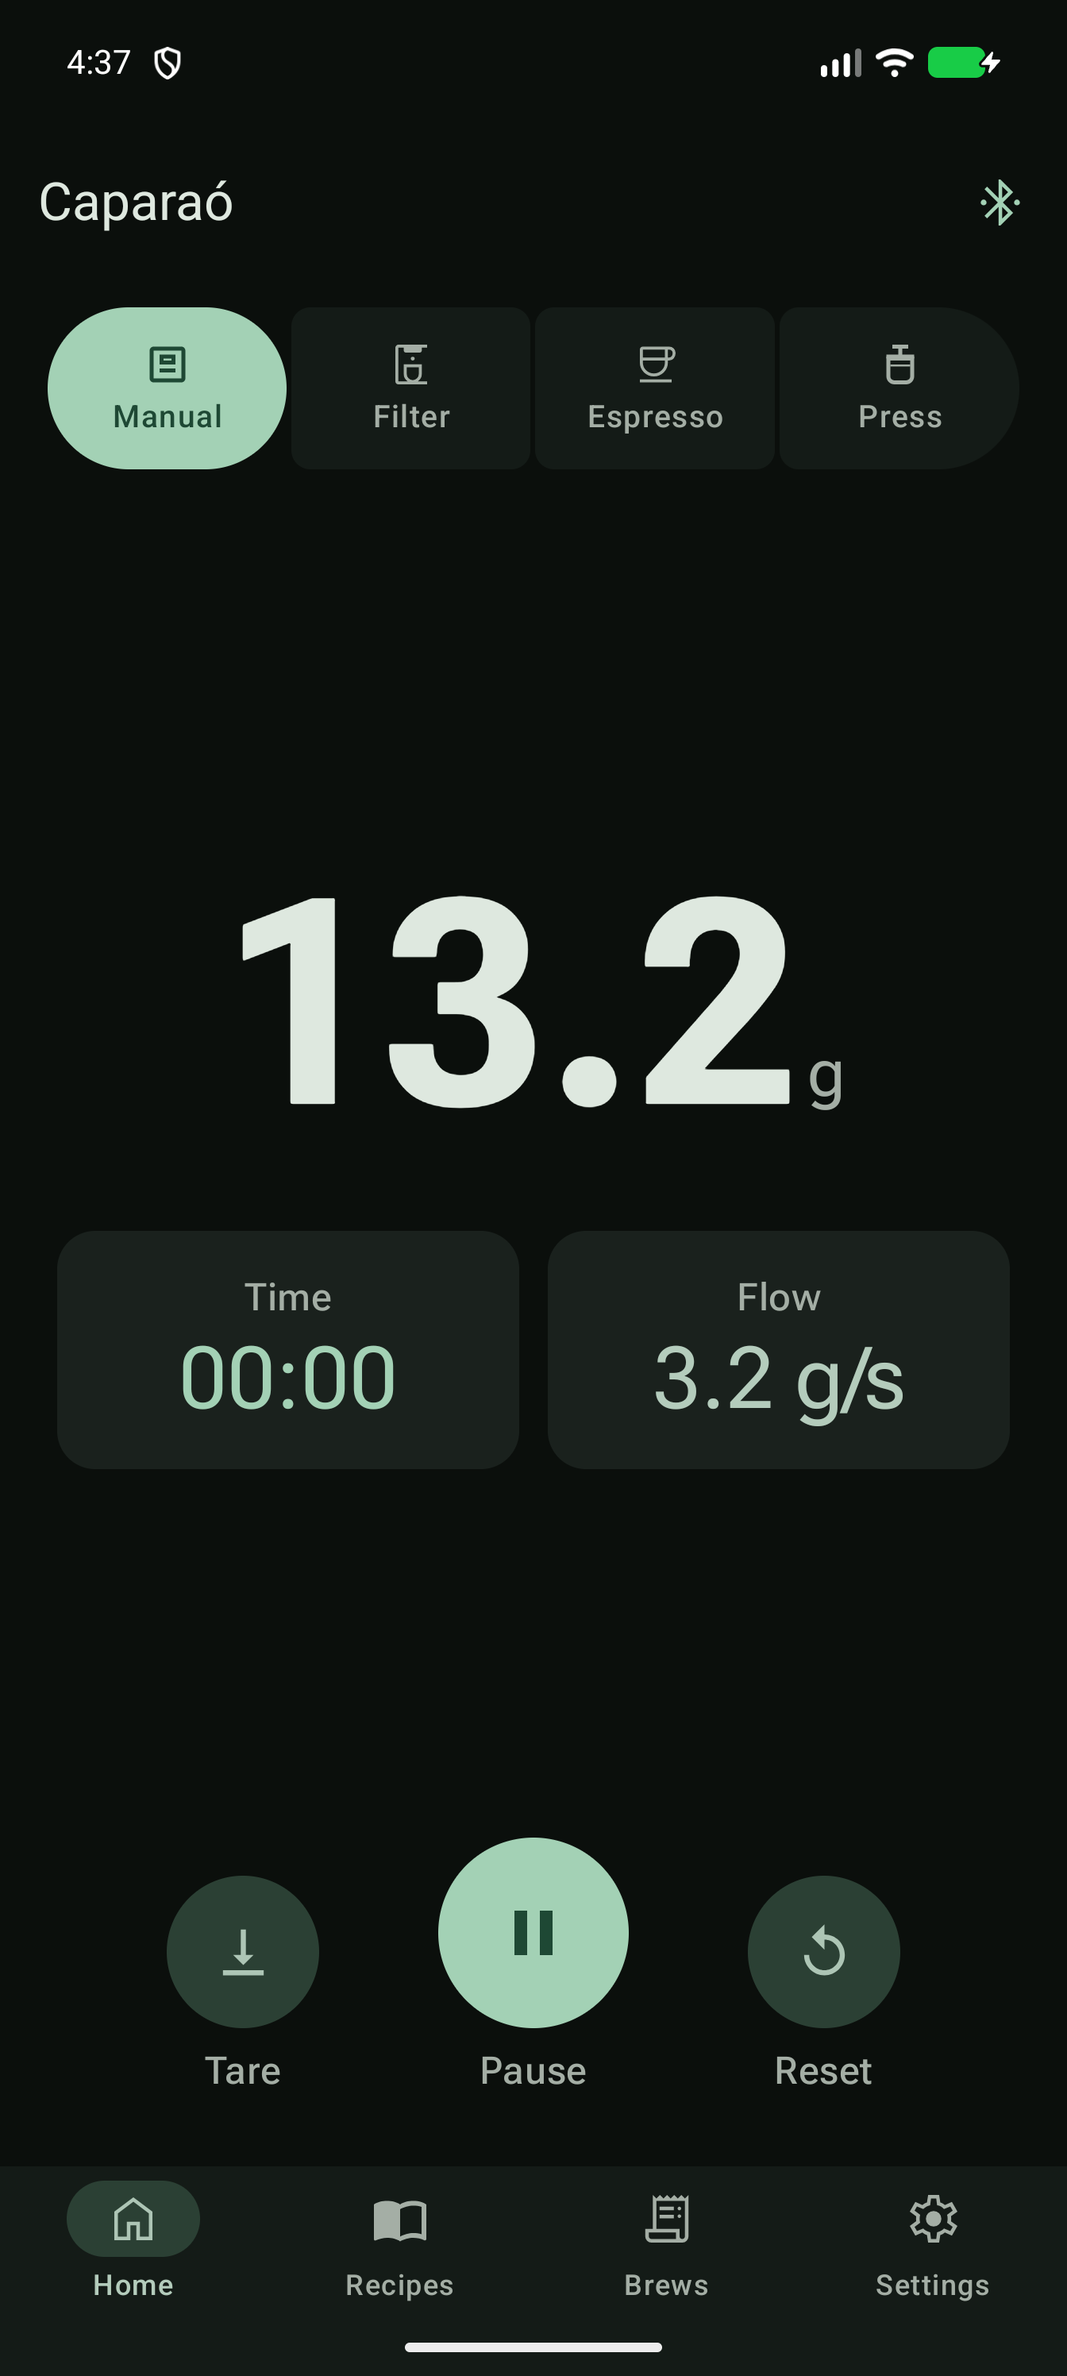
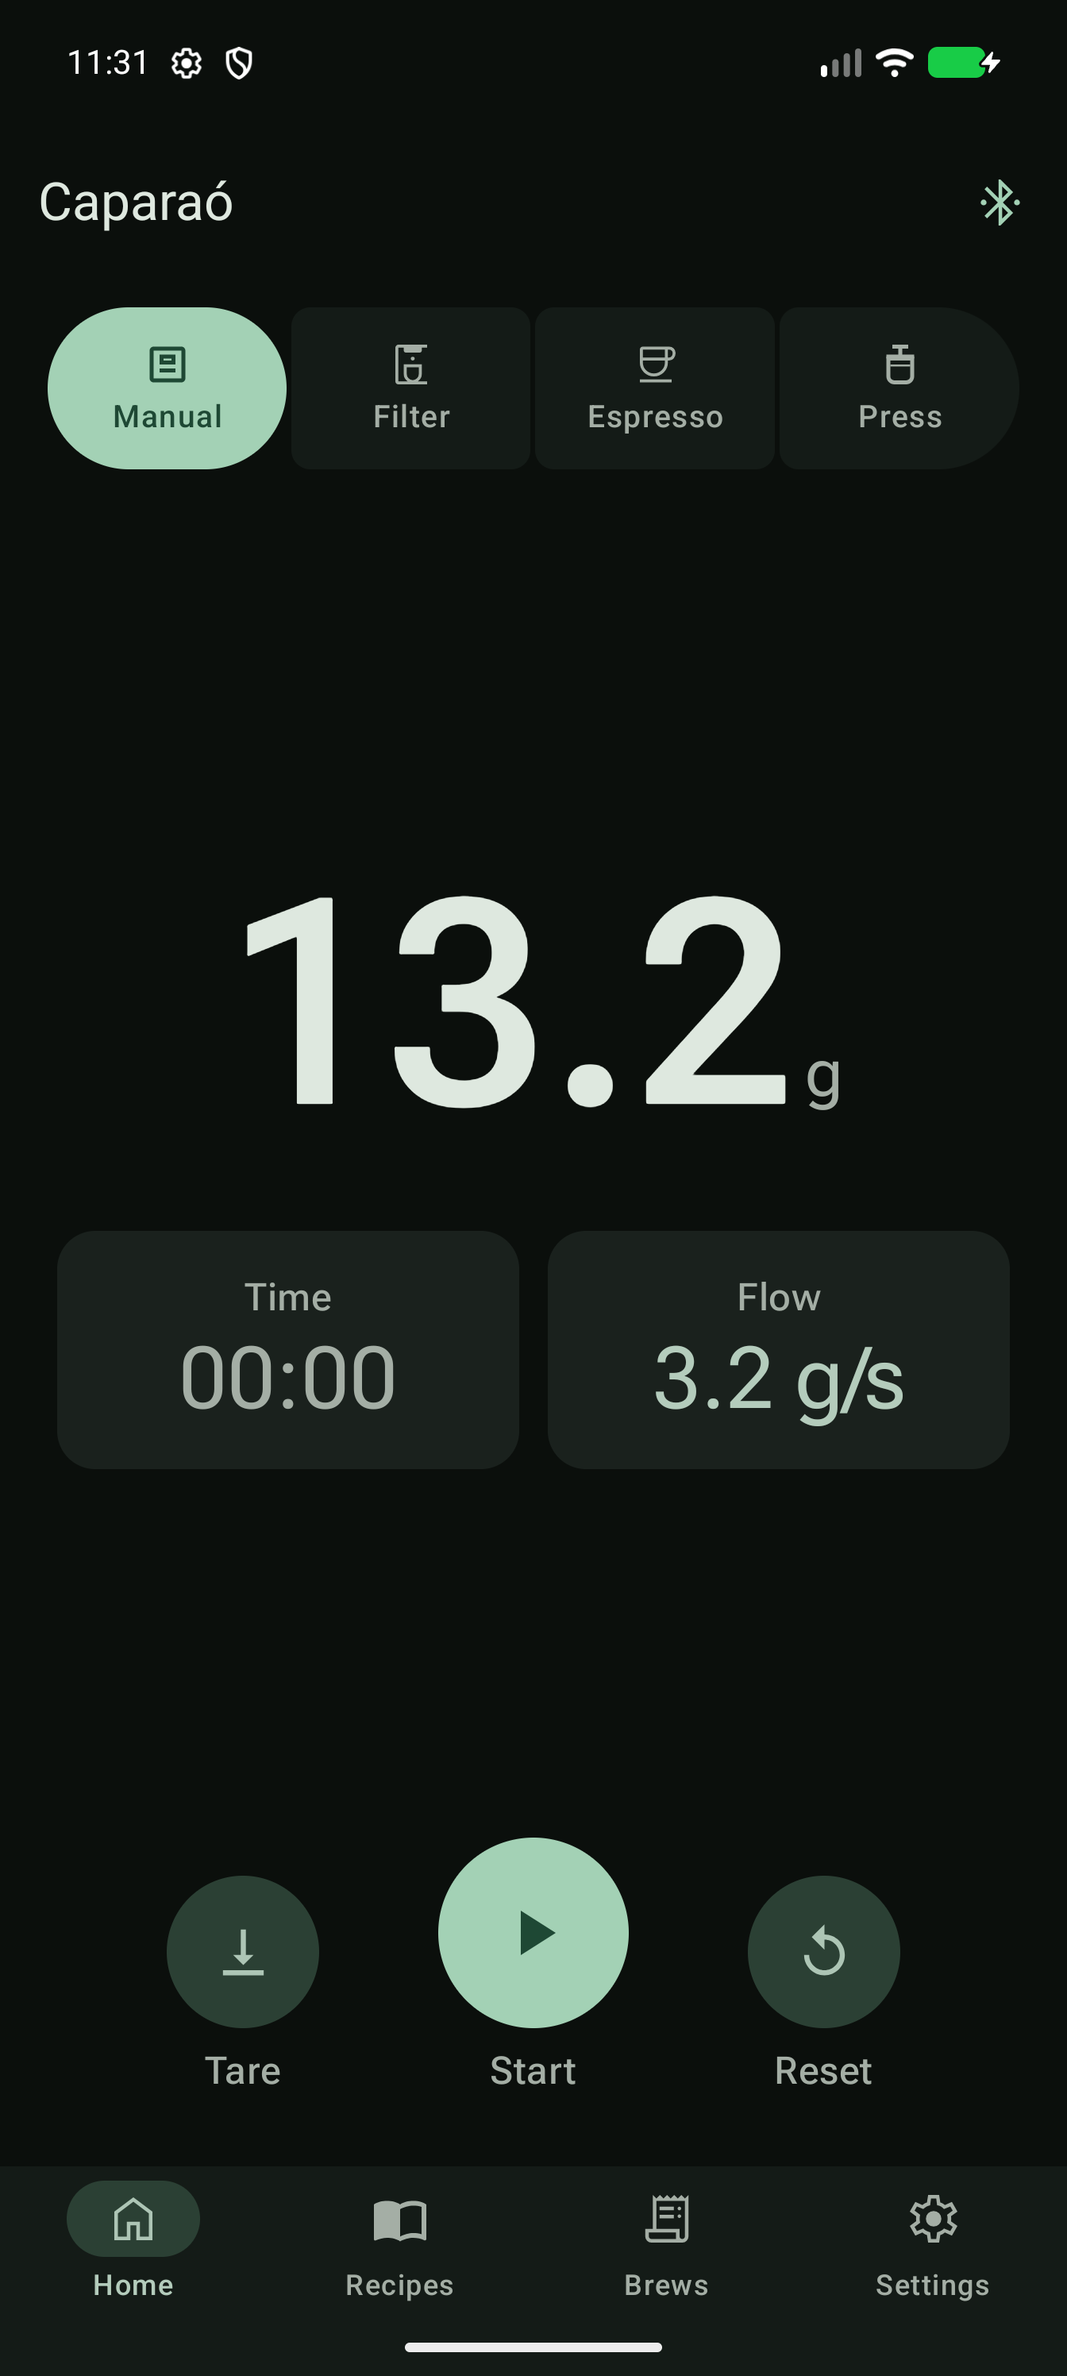
Refresh README screenshots and feature table
Capture the current Manual, filter, espresso and French press screens on the scripted scale, add the Manual, French press and Brews cells, and update the changed copy (Cup's on, widget). Fix capture-scenarios.py for the current prepare steps, the filter recipe and a clean Home start.

diff --git a/scripts/capture/capture-scenarios.py b/scripts/capture/capture-scenarios.py
@@ -55,13 +55,25 @@ def capture(path: Path, output_dir: Path, adb: str = ADB, serial: str | None = N
     checkpoints = scenario_plan(path)
     captured: list[Path] = []
 
-    def command(*args: str, binary: bool = False) -> bytes | str:
-        result = subprocess.run([adb, "-s", serial, *args], check=True, capture_output=True)
+    def command(*args: str, binary: bool = False, timeout: float = 30) -> bytes | str:
+        result = subprocess.run([adb, "-s", serial, *args], check=True, capture_output=True, timeout=timeout)
         return result.stdout if binary else result.stdout.decode("utf-8", errors="replace")
 
     def hierarchy() -> ET.Element:
-        command("shell", "uiautomator", "dump", "/sdcard/scripted-capture-window.xml")
-        return ET.fromstring(command("shell", "cat", "/sdcard/scripted-capture-window.xml"))
+        # uiautomator returns a non-zero exit and no root while a screen transition is running.
+        deadline = time.monotonic() + 10
+        while True:
+            try:
+                command("shell", "uiautomator", "dump", "/sdcard/scripted-capture-window.xml", timeout=15)
+                return ET.fromstring(command("shell", "cat", "/sdcard/scripted-capture-window.xml"))
+            except (subprocess.CalledProcessError, subprocess.TimeoutExpired, ET.ParseError):
+                if time.monotonic() >= deadline:
+                    raise
+                time.sleep(0.2)
+
+    def bounds_of(node: ET.Element) -> tuple[int, int, int, int] | None:
+        match = re.fullmatch(r"\[(\d+),(\d+)\]\[(\d+),(\d+)\]", node.get("bounds", ""))
+        return tuple(int(part) for part in match.groups()) if match is not None else None
 
     def wait_for_text(value: str, *, contains: bool = False, timeout: float = 10) -> ET.Element:
         deadline = time.monotonic() + timeout
@@ -73,14 +85,35 @@ def capture(path: Path, output_dir: Path, adb: str = ADB, serial: str | None = N
                 raise RuntimeError(f"app did not show {value!r}")
             time.sleep(0.2)
 
+    def wait_for_bottom(value: str, *, timeout: float = 10) -> ET.Element:
+        # The progress bar labels the last milestone "Done" too; the live screen's button is the one near the bottom.
+        deadline = time.monotonic() + timeout
+        while True:
+            root = hierarchy()
+            if any(
+                (bounds_of(node) or (0, 0, 0, 0))[3] > 1600
+                for node in root.iter("node")
+                if node.get("text") == value
+            ):
+                return root
+            if time.monotonic() >= deadline:
+                raise RuntimeError(f"app did not show the {value!r} button")
+            time.sleep(0.2)
+
     def tap_text(value: str) -> None:
         root = wait_for_text(value)
-        node = next(node for node in root.iter("node") if node.get("text") == value and node.get("enabled") == "true")
-        bounds = node.get("bounds", "")
-        match = re.fullmatch(r"\[(\d+),(\d+)\]\[(\d+),(\d+)\]", bounds)
-        if match is None:
+        # A milestone label and a button can share a word ("Done"): the button sits lower on the screen.
+        nodes = sorted(
+            (node for node in root.iter("node") if node.get("text") == value),
+            key=lambda node: (bounds_of(node) or (0, 0, 0, 0))[3],
+            reverse=True,
+        )
+        # Compose puts the label on a child of the clickable control, so the text node itself can report enabled=false.
+        node = next((node for node in nodes if node.get("clickable") == "true"), nodes[0])
+        bounds = bounds_of(node)
+        if bounds is None:
             raise RuntimeError(f"app did not expose tap bounds for {value!r}")
-        left, top, right, bottom = (int(part) for part in match.groups())
+        left, top, right, bottom = bounds
         command("shell", "input", "tap", str((left + right) // 2), str((top + bottom) // 2))
         time.sleep(0.35)
 
@@ -92,7 +125,8 @@ def capture(path: Path, output_dir: Path, adb: str = ADB, serial: str | None = N
 
     subprocess.run([adb, "-s", serial, "forward", "--remove", f"tcp:{port}"], check=False, capture_output=True)
     command("forward", f"tcp:{port}", f"tcp:{API_PORT}")
-    command("shell", "am", "start", "-S", "-n", ACTIVITY, "--ez", "scripted_api", "true", "--ez", "script_paused", "true")
+    # A restored brew screen would otherwise outlive the force stop: NEW_TASK | CLEAR_TASK starts at Home every run.
+    command("shell", "am", "start", "-S", "-n", ACTIVITY, "-f", "0x10008000", "--ez", "scripted_api", "true", "--ez", "script_paused", "true")
 
     def api(method: str, endpoint: str, payload: bytes | dict | None = None, content_type: str = "application/json") -> dict:
         data = json.dumps(payload).encode() if isinstance(payload, dict) else payload
@@ -113,6 +147,13 @@ def capture(path: Path, output_dir: Path, adb: str = ADB, serial: str | None = N
             api("POST", "/clock", {"action": "advance", "ms": step})
             time.sleep(0.03)
             remaining -= step
+
+    def manual_reading() -> None:
+        # Home looks alive in the README: a steady 3.2 g/s ramp instead of an idle 0.0 g.
+        for delta_ms, grams in ((1000, 10.0), (500, 11.6), (500, 13.2)):
+            advance_clock(delta_ms)
+            api("POST", "/reading", {"weight_g": grams})
+        time.sleep(0.6)
 
     try:
         deadline = time.monotonic() + 10
@@ -138,15 +179,20 @@ def capture(path: Path, output_dir: Path, adb: str = ADB, serial: str | None = N
         mode_label = {"filter": "Filter", "espresso": "Espresso", "french-press": "Press"}.get(path.stem)
         if mode_label is not None:
             api("POST", "/event", {"event": "connected"})
+            manual_reading()
             screenshot("home")
             tap_text(mode_label)
+            # Let the mode's first screen settle before touching a recipe chip.
+            wait_for_text("Next")
             if path.stem == "espresso":
                 tap_text("Free brew")
-            else:
-                wait_for_text("Step 1 of", contains=True)
+            elif path.stem == "filter":
+                # Filter opens on a free brew; choose the built-in that matches the scenario for the guided flow.
+                tap_text("Melitta 102")
+                wait_for_text("1:15", contains=True)
             screenshot("dose")
             tap_text("Next")
-            wait_for_text("Weigh the beans" if path.stem == "espresso" else "Step 2 of", contains=path.stem != "espresso")
+            wait_for_text("Weigh the beans")
             dose = float(scenario.get("dose_g", 18))
             api("POST", "/reading", {"weight_g": dose})
             time.sleep(0.35)
@@ -156,19 +202,41 @@ def capture(path: Path, output_dir: Path, adb: str = ADB, serial: str | None = N
             if path.stem == "espresso":
                 wait_for_text("Prepare the portafilter")
                 screenshot("prepare-portafilter")
+                # The cup is already on the scale when Ready arms the detector, so it tares from that reading.
+                api("POST", "/scenario", path.read_bytes())
+                api("POST", "/clock", {"action": "pause"})
+                advance_clock(2100)
                 tap_text("Ready")
                 wait_for_text("Put the cup on the scale")
+                # The cup is already there: arm from that reading instead of waiting for the steady-cup tare.
+                tap_text("Cup's on")
+                wait_for_text("Start the shot")
+                time.sleep(0.5)
+            elif path.stem == "filter":
+                wait_for_text("Prepare the filter")
+                screenshot("prepare-filter")
+                tap_text("Ready")
+                wait_for_bottom("Done")
+                api("POST", "/scenario", path.read_bytes())
             else:
-                wait_for_text("Ratio")
-            api("POST", "/scenario", path.read_bytes())
+                wait_for_text("Prepare the press")
+                screenshot("prepare-french-press")
+                tap_text("Ready")
+                wait_for_bottom("Done")
+                api("POST", "/scenario", path.read_bytes())
         else:
             api("POST", "/scenario", path.read_bytes())
 
         api("POST", "/clock", {"action": "pause"})
-        previous_ms = 0
+        previous_ms = 2100 if path.stem == "espresso" else 0
         for at_ms, name in checkpoints:
+            if at_ms < previous_ms:
+                continue
             advance_clock(at_ms - previous_ms)
             time.sleep(0.8)
+            if name == "summary" and path.stem == "filter":
+                # A lifted dripper pauses the brew; Done finishes it from the paused screen.
+                tap_text("Done")
             if name == "finished" or (path.stem == "filter" and name == "summary"):
                 wait_for_text("Saved", timeout=10)
             screenshot(name)

diff --git a/scripts/tests/test_capture_scenarios.py b/scripts/tests/test_capture_scenarios.py
@@ -26,8 +26,30 @@ class CaptureScenarioTests(unittest.TestCase):
     def test_espresso_capture_waits_for_named_dose_and_keeps_portafilter(self):
         source = SCRIPT.read_text()
         self.assertIn('tap_text("Free brew")', source)
-        self.assertIn('wait_for_text("Weigh the beans" if path.stem == "espresso"', source)
+        self.assertIn('wait_for_text("Weigh the beans")', source)
         self.assertIn('wait_for_text("Prepare the portafilter")', source)
+        self.assertIn('wait_for_text("Start the shot")', source)
+
+    def test_filter_capture_selects_the_built_in_recipe(self):
+        source = SCRIPT.read_text()
+        self.assertIn('tap_text("Melitta 102")', source)
+        self.assertIn('wait_for_text("1:15", contains=True)', source)
+
+    def test_capture_starts_from_home_instead_of_a_restored_brew(self):
+        source = SCRIPT.read_text()
+        self.assertIn('"am", "start", "-S"', source)
+        self.assertIn('"0x10008000"', source)
+
+    def test_filter_capture_waits_for_its_preparation_step(self):
+        source = SCRIPT.read_text()
+        self.assertIn('wait_for_text("Prepare the filter")', source)
+        self.assertIn('wait_for_bottom("Done")', source)
+
+    def test_french_press_capture_waits_for_its_preparation_step(self):
+        source = SCRIPT.read_text()
+        self.assertIn('wait_for_text("Prepare the press")', source)
+        self.assertIn('tap_text("Ready")', source)
+        self.assertIn('wait_for_bottom("Done")', source)
 
     def test_french_press_plan_captures_steep_and_press_and_serve(self):
         plan = capture_scenarios.scenario_plan(capture_scenarios.SCENARIO_DIR / "french-press.json")

diff --git a/README.md b/README.md
@@ -7,9 +7,9 @@
 </p>
 
 A small, native Android app for the [Timemore Dot](https://www.timemore.com) coffee scale, with a Wear OS companion.
-It shows weight, flow and timer live, guides espresso and filter recipes step by step, records every brew with its
-curves and keeps everything on the phone. Optionally, each brew goes to your own server, and from there to Prometheus
-and Grafana.
+It shows weight, flow and timer live, guides espresso, filter and French press brews step by step, records every brew
+with its curves and keeps everything on the phone. Optionally, each brew goes to your own server, and from there to
+Prometheus and Grafana.
 
 Personal, sideloaded app: no Play Store listing. English and Brazilian Portuguese. Android 12+, Wear OS 3+.
 
@@ -17,14 +17,16 @@ Personal, sideloaded app: no Play Store listing. English and Brazilian Portugues
 
 <table>
 <tr>
-<td width="33%" align="center"><img src="assets/demo/home-live.png" width="220" alt="Home showing the current brew weight, timer and flow"><br><b>Live scale</b><br>Weight, timer and flow in real time, with tare and timer controls.</td>
-<td width="33%" align="center"><img src="assets/demo/dose.png" width="220" alt="Dose entry with the planned water amount"><br><b>Dose and ratio</b><br>Pick the ratio, weigh the beans (auto tare) and the water follows.</td>
-<td width="33%" align="center"><img src="assets/demo/guide-pour.png" width="220" alt="Guided filter pour showing the current step and weight"><br><b>Guided pours</b><br>Bloom, pours and waits by weight and time, with ahead or behind feedback and alerts.</td>
+<td width="25%" align="center"><img src="assets/demo/home-live.png" width="200" alt="Home in Manual mode showing the live weight, timer and flow"><br><b>Manual</b><br>Weight, timer and flow in real time, with tare and timer controls.</td>
+<td width="25%" align="center"><img src="assets/demo/dose.png" width="200" alt="Dose and ratio setup for a filter recipe with the water target"><br><b>Dose and ratio</b><br>Pick a recipe or a free brew, weigh the beans (auto tare) and the water follows.</td>
+<td width="25%" align="center"><img src="assets/demo/guide-pour.png" width="200" alt="Guided filter pour showing the target weight and flow pace"><br><b>Guided pours</b><br>Bloom, pours and waits by weight and time, with ahead or behind feedback and alerts.</td>
+<td width="25%" align="center"><img src="assets/demo/french-press.png" width="200" alt="French press press-and-serve step with the timer and press illustration"><br><b>French press</b><br>Water, steep timer and the press reminder, with a guided finish.</td>
 </tr>
 <tr>
-<td align="center"><img src="assets/demo/espresso-live.png" width="220" alt="Espresso extracting with its current yield, ratio and timer"><br><b>Automatic espresso</b><br>Tares on the cup, starts on the first drop and stops when the flow does.</td>
-<td align="center"><img src="assets/demo/data.png" width="220" alt="Saved brew details with the weight and flow chart"><br><b>History and charts</b><br>Weight and flow curves for every brew, compare two brews, trends per recipe.</td>
-<td align="center"><img src="assets/demo/recipes.png" width="220" alt="Recipe list with espresso and filter recipes"><br><b>Recipes</b><br>Built-in espresso, V60 and Melitta recipes, and your own with dose, ratio, grind, temperature and steps.</td>
+<td align="center"><img src="assets/demo/espresso-live.png" width="200" alt="Espresso extracting with its yield, ratio and timer"><br><b>Automatic espresso</b><br>Tares on the cup, starts on the first drop and stops when the flow does.</td>
+<td align="center"><img src="assets/demo/data.png" width="200" alt="Saved brew details with the weight and flow chart"><br><b>History and charts</b><br>Weight and flow curves for every brew, compare two brews, trends per recipe.</td>
+<td align="center"><img src="assets/demo/recipes.png" width="200" alt="Recipe list with Filter, Espresso and Press recipes"><br><b>Recipes</b><br>Built-in espresso, V60, Melitta and French press recipes, and your own with dose, ratio, grind, temperature and steps.</td>
+<td align="center"><img src="assets/demo/brews.png" width="200" alt="Brew list with saved brews and their upload status"><br><b>Brews</b><br>Every brew with its dose, yield, ratio and upload status; no server needed.</td>
 </tr>
 </table>
 
@@ -32,6 +34,7 @@ Personal, sideloaded app: no Play Store listing. English and Brazilian Portugues
   timer buttons, step vibration and a finish alert.
 - **Coffee bags:** name, roaster, origin and process, roast date, weight, notes and a finished flag; the brew notes
   suggest open bags first.
+- **Home-screen widget:** the last brew or a 7-day summary with brews, beverage, dose and caffeine.
 - **Offline-first:** no account and no server needed. Sync is an add-on.
 - **Your data:** brews go to any server that follows the [exporter's upload contract](https://github.com/MateuxLucax/timemore-dot-prometheus-exporter/blob/main/testdata/contract/README.md), such as
   [timemore-dot-prometheus-exporter](https://github.com/MateuxLucax/timemore-dot-prometheus-exporter).
@@ -55,7 +58,8 @@ flowchart LR
 - **Kotlin, Jetpack Compose and Material 3**, one ViewModel per screen and manual dependency injection.
 - **Layers, one way:** `model ← data ← brew ← sync ← ui`, enforced by a test.
   - `data`: the Dot's BLE protocol (frame decoder, CRC, handshake, reconnect with backoff), Room storage, the upload client.
-  - `brew`: pure brew logic fed with timed readings: espresso and filter detectors, flow smoothing, recipe step tracking.
+  - `brew`: pure brew logic fed with timed readings: espresso and filter detectors, flow smoothing, French press
+    finish tracking and recipe step tracking.
   - `sync`: WorkManager uploads with retries and readable errors.
   - `ui`: onboarding, home, guided brew, recipes, brews and settings.
 - **Modules:** `app` (phone), `wear` (watch) and `wearlink` (shared watch snapshot).
@@ -93,7 +97,7 @@ optionally asks for your server's URL and token.
 | "Scale not found" | Turn the Dot on and bring it closer. It connects to one phone at a time: close the Timemore app or another phone using it. |
 | "Scale won't pair" | The Dot remembers one phone. Hold its button (under the scale) until the light blinks fast, then tap Retry. |
 | "Bluetooth not allowed" | App settings → Permissions → Nearby devices → Allow. |
-| The espresso doesn't start | Put the cup down and leave it still for a second: the app tares, then waits for the first drops. If the cup was already tared, tap "Cup already tared". |
+| The espresso doesn't start | Put the cup down and leave it still for a second: the app tares, then waits for the first drops. If the cup was already tared, tap "Cup's on". |
 | The espresso doesn't end | It ends about 4 s after the weight stops rising. Tap Stop to end it yourself. |
 | Brews stay "Only on this phone" | Brews tab shows the last upload error and its fix. Test the server in Settings. |
 | Server on your home network times out | Android 17 needs the local network permission: allow it when the app asks, or in App settings → Permissions → Nearby devices. |
@@ -162,6 +166,7 @@ an error), drop, overload or lift; `/clock`
 pauses, advances or changes playback speed; `/state` returns the connection, reading and scenario position. To capture
 the named checkpoints, attach `Pixel_10_Pro_XL`, set `ANDROID_SERIAL` to its emulator serial, then run
 `scripts/capture/capture-scenarios.py`. It writes one PNG per state under the git-ignored `captures/scripted-scale/`.
+The README screens come from these states, plus the saved-brew and recipe screens captured after a run.
 Scenario JSON files live in `app/src/test/resources/scenarios/`; JVM and instrumented tests load those same files and
 drive the virtual clock without HTTP.
 
